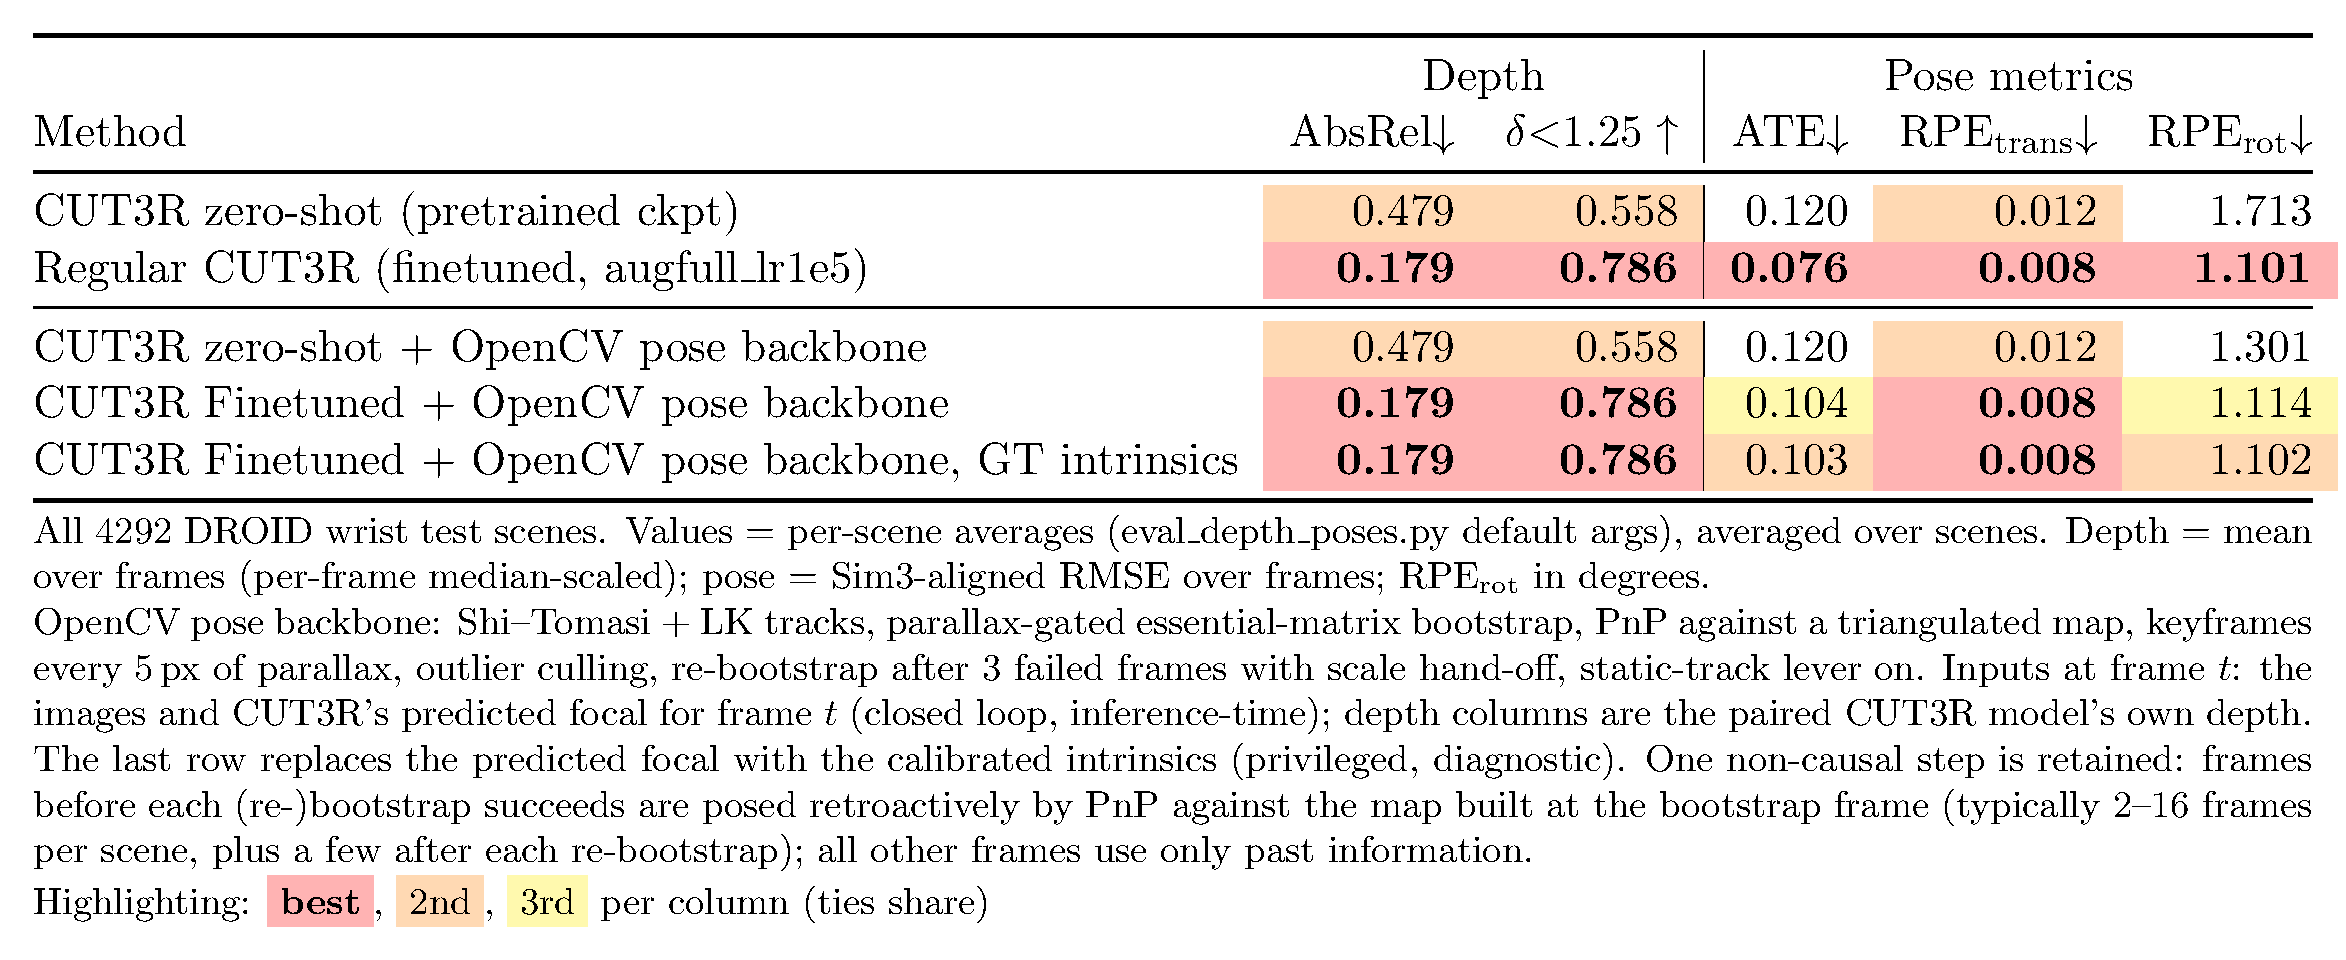
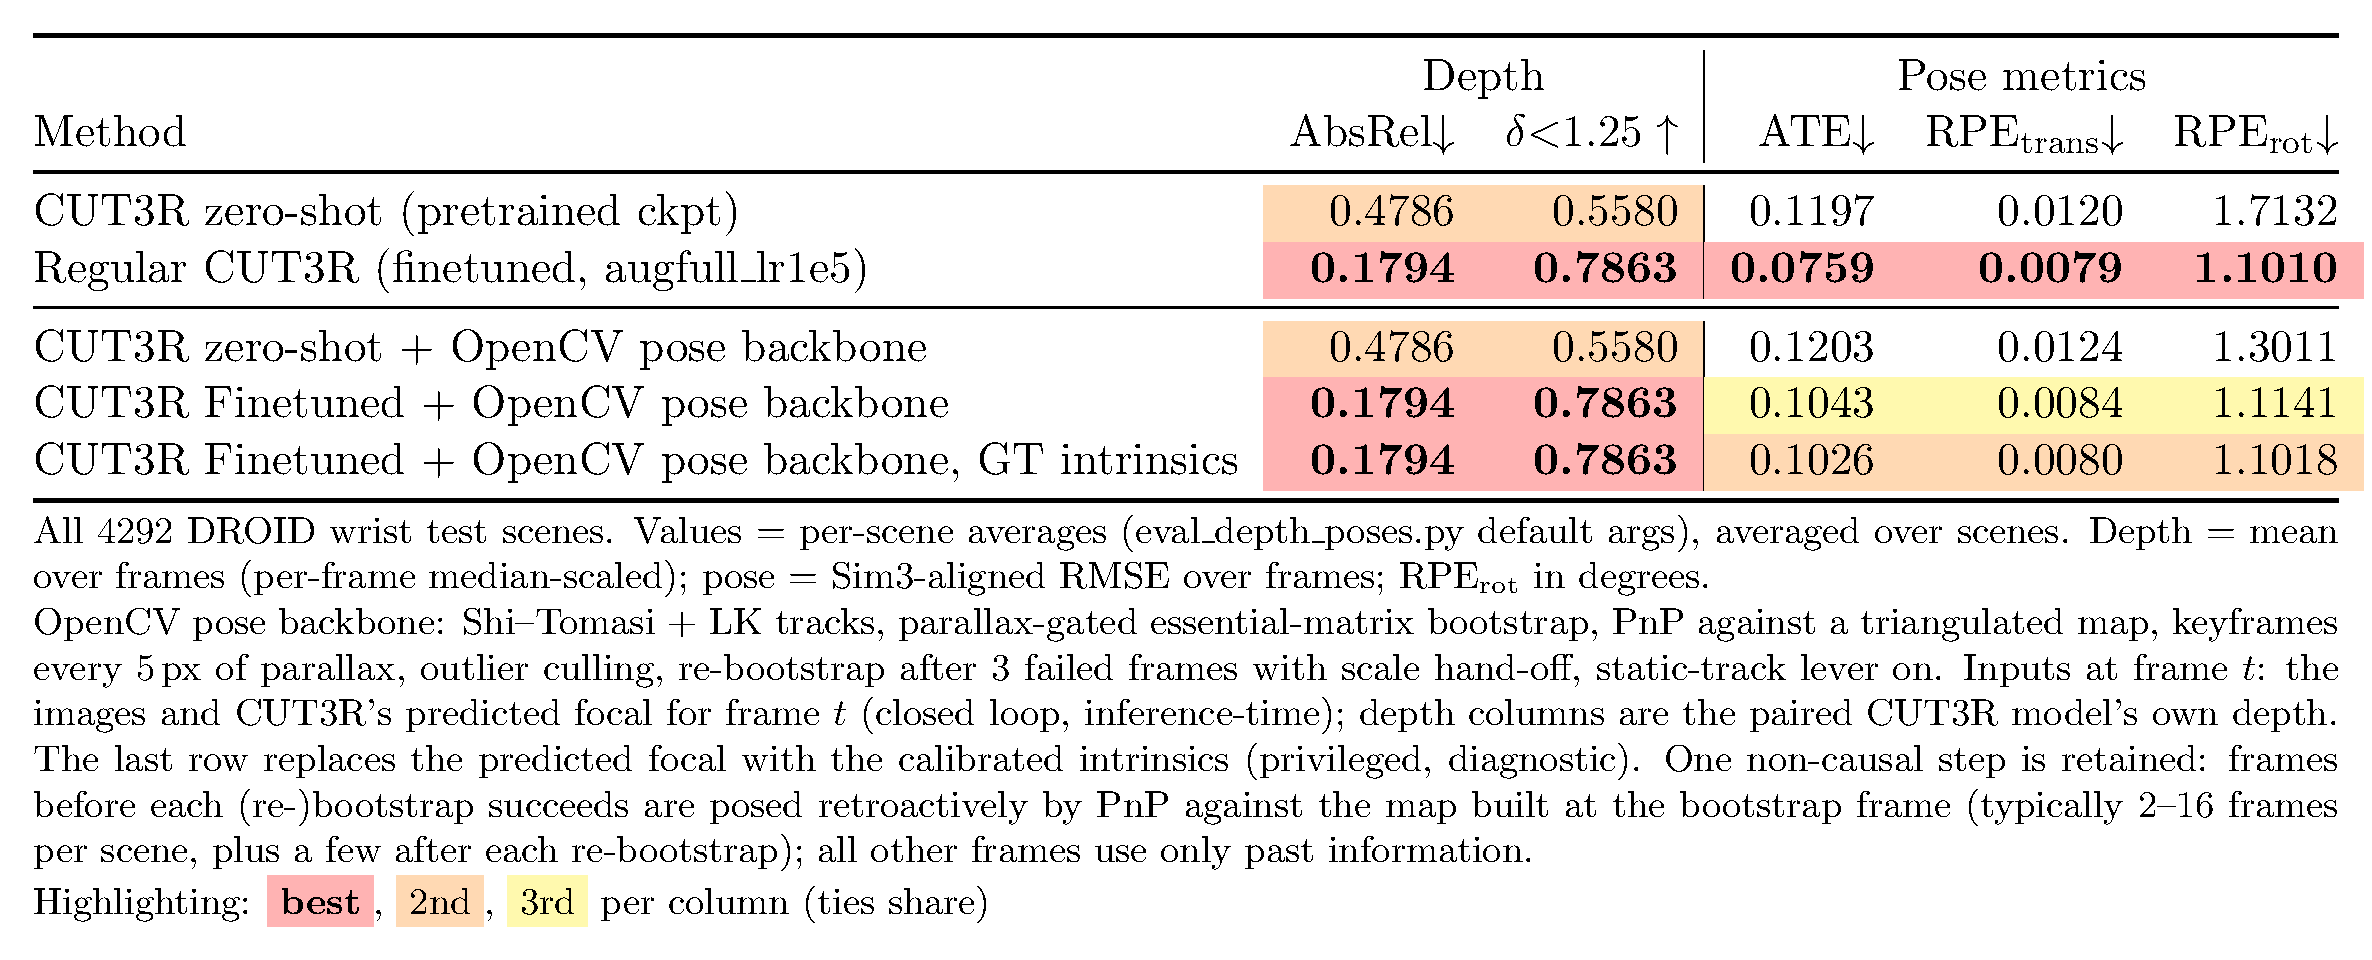
Fix table precision: 3 decimals made distinct ATE / RPE-trans values look identical
build_opencv_full_table.py formatted every cell with %.3f. At three decimals 0.1197 and 0.1203
both render as "0.120", and 0.0120 and 0.0124 both render as "0.012", so the ATE and RPE-trans
columns of the zero-shot pairing appeared byte-identical when the underlying values differ by
0.6 mm and 0.4 mm. That was a presentation defect that invited the conclusion that the classical
backbone had somehow reproduced CUT3R's pose numbers exactly.

Switches both table builders to four decimals, matching the convention already used by
summary/averages_table.txt, regenerates the committed table, and records the correction in the
results section. Only the two depth columns are genuinely identical, and only because the OpenCV
row's depth directory is a symlink to the paired model's - the backbone predicts poses only.
Every pose cell differs between a model row and its OpenCV row, on every one of the 4292 scenes.

Claude-Session: https://claude.ai/code/session_01AAbUUUvDaYWJfQFpLhajrT

diff --git a/docs/opencv_vo/opencv_backbone_full4292.tex b/docs/opencv_vo/opencv_backbone_full4292.tex
@@ -10,12 +10,12 @@
 Method & AbsRel$\downarrow$ & $\delta{<}1.25\uparrow$
  & ATE$\downarrow$ & RPE\textsubscript{trans}$\downarrow$ & RPE\textsubscript{rot}$\downarrow$ \\
 \midrule
-CUT3R zero-shot (pretrained ckpt) & \cellcolor{orange!30}0.479 & \cellcolor{orange!30}0.558 & 0.120 & \cellcolor{orange!30}0.012 & 1.713 \\
-Regular CUT3R (finetuned, augfull\_lr1e5) & \cellcolor{red!30}\textbf{0.179} & \cellcolor{red!30}\textbf{0.786} & \cellcolor{red!30}\textbf{0.076} & \cellcolor{red!30}\textbf{0.008} & \cellcolor{red!30}\textbf{1.101} \\
+CUT3R zero-shot (pretrained ckpt) & \cellcolor{orange!30}0.4786 & \cellcolor{orange!30}0.5580 & 0.1197 & 0.0120 & 1.7132 \\
+Regular CUT3R (finetuned, augfull\_lr1e5) & \cellcolor{red!30}\textbf{0.1794} & \cellcolor{red!30}\textbf{0.7863} & \cellcolor{red!30}\textbf{0.0759} & \cellcolor{red!30}\textbf{0.0079} & \cellcolor{red!30}\textbf{1.1010} \\
 \midrule
-CUT3R zero-shot + OpenCV pose backbone & \cellcolor{orange!30}0.479 & \cellcolor{orange!30}0.558 & 0.120 & \cellcolor{orange!30}0.012 & 1.301 \\
-CUT3R Finetuned + OpenCV pose backbone & \cellcolor{red!30}\textbf{0.179} & \cellcolor{red!30}\textbf{0.786} & \cellcolor{yellow!40}0.104 & \cellcolor{red!30}\textbf{0.008} & \cellcolor{yellow!40}1.114 \\
-CUT3R Finetuned + OpenCV pose backbone, GT intrinsics & \cellcolor{red!30}\textbf{0.179} & \cellcolor{red!30}\textbf{0.786} & \cellcolor{orange!30}0.103 & \cellcolor{red!30}\textbf{0.008} & \cellcolor{orange!30}1.102 \\
+CUT3R zero-shot + OpenCV pose backbone & \cellcolor{orange!30}0.4786 & \cellcolor{orange!30}0.5580 & 0.1203 & 0.0124 & 1.3011 \\
+CUT3R Finetuned + OpenCV pose backbone & \cellcolor{red!30}\textbf{0.1794} & \cellcolor{red!30}\textbf{0.7863} & \cellcolor{yellow!40}0.1043 & \cellcolor{yellow!40}0.0084 & \cellcolor{yellow!40}1.1141 \\
+CUT3R Finetuned + OpenCV pose backbone, GT intrinsics & \cellcolor{red!30}\textbf{0.1794} & \cellcolor{red!30}\textbf{0.7863} & \cellcolor{orange!30}0.1026 & \cellcolor{orange!30}0.0080 & \cellcolor{orange!30}1.1018 \\
 \bottomrule
 \end{tabular}}%
 \begin{minipage}{\wd\tblbox}

diff --git a/eval_pipeline/build_opencv_full_table.py b/eval_pipeline/build_opencv_full_table.py
@@ -56,7 +56,7 @@ def main():
     data = [(name, lbl) + load(args.out_root, lbl, scenes) for name, lbl in ROWS]
     present = [d for d in data if d[2] > 0]
     # rank per column (ties share a rank), 3-decimal display values are what get compared, as in the reference
-    disp = {(d[1], m): round(d[3][m], 3) for d in present for m in METRICS}
+    disp = {(d[1], m): round(d[3][m], 4) for d in present for m in METRICS}
     rank = {}
     for m in METRICS:
         vs = sorted({disp[(d[1], m)] for d in present if np.isfinite(disp[(d[1], m)])}, reverse=(m in HIGHER_BETTER))
@@ -70,7 +70,9 @@ def main():
             continue
         cells = []
         for m in METRICS:
-            txt = f"{v[m]:.3f}"
+            # 4 decimals: at 3 dp, 0.1197 and 0.1203 both render as "0.120" and the ATE /
+            # RPE-trans columns look falsely identical. 4 dp matches summary/averages_table.txt.
+            txt = f"{v[m]:.4f}"
             rk = rank[(lbl, m)]
             if rk < 3:
                 txt = COLORS[rk] + txt + ("}" if rk == 0 else "")

diff --git a/eval_pipeline/build_opencv_vo_table.py b/eval_pipeline/build_opencv_vo_table.py
@@ -64,7 +64,8 @@ def main():
         prev = grp
         cells = []
         for c in cols:
-            txt = f"{v[c]:.1f}" if c != "rpe_r" else f"{v[c]:.2f}"
+            # 1 dp on mm-scale columns hid real differences in the full table; keep 2 dp here too
+            txt = f"{v[c]:.2f}" if c != "rpe_r" else f"{v[c]:.3f}"
             cells.append(r"\textbf{" + txt + "}" if abs(v[c] - best[c]) < 1e-12 else txt)
         diag = f"{v['failed']:.0f}\\,\\% / {v['reboots']}" if "failed" in v else "--"
         lines.append(f"{name} & " + " & ".join(cells) + f" & {diag} \\\\")

diff --git a/docs/opencv_vo/README.md b/docs/opencv_vo/README.md
@@ -7200,6 +7200,18 @@ Before interpreting anything, the table was re-derived from scratch:
 4. **The depth directory of each OpenCV row is a symlink** to the paired model's `depth/`, which
    is why §2.1 is exactly identical rather than approximately so.
 
+### 2.0b Correction: the table originally printed 3 decimals (fixed 2026-09-11)
+
+The first version of `build_opencv_full_table.py` formatted every cell with `%.3f`. At three
+decimals 0.1197 and 0.1203 both render as `0.120`, and 0.0120 and 0.0124 both render as `0.012`,
+so the ATE and RPE-trans columns of the zero-shot pairing **looked byte-identical when they were
+not**. That was a formatting defect, not a property of the data, and it invited exactly the wrong
+conclusion. The builder now prints four decimals, matching the repo's own
+`summary/averages_table.txt` convention, and the committed table has been regenerated.
+
+Only the two depth columns are genuinely identical, and only because the depth directory is a
+symlink (§2.1). Every pose cell differs between a model row and its OpenCV row.
+
 ### 2.1 Depth: AbsRel and δ<1.25 — neutral by construction
 
 | Pairing | AbsRel | δ<1.25 |

diff --git a/docs/opencv_vo/sections/90_results.md b/docs/opencv_vo/sections/90_results.md
@@ -53,6 +53,18 @@ Before interpreting anything, the table was re-derived from scratch:
 4. **The depth directory of each OpenCV row is a symlink** to the paired model's `depth/`, which
    is why §2.1 is exactly identical rather than approximately so.
 
+### 2.0b Correction: the table originally printed 3 decimals (fixed 2026-09-11)
+
+The first version of `build_opencv_full_table.py` formatted every cell with `%.3f`. At three
+decimals 0.1197 and 0.1203 both render as `0.120`, and 0.0120 and 0.0124 both render as `0.012`,
+so the ATE and RPE-trans columns of the zero-shot pairing **looked byte-identical when they were
+not**. That was a formatting defect, not a property of the data, and it invited exactly the wrong
+conclusion. The builder now prints four decimals, matching the repo's own
+`summary/averages_table.txt` convention, and the committed table has been regenerated.
+
+Only the two depth columns are genuinely identical, and only because the depth directory is a
+symlink (§2.1). Every pose cell differs between a model row and its OpenCV row.
+
 ### 2.1 Depth: AbsRel and δ<1.25 — neutral by construction
 
 | Pairing | AbsRel | δ<1.25 |
